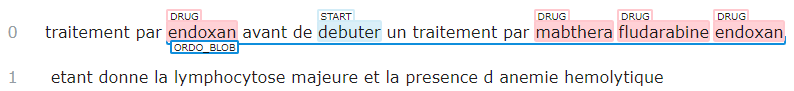
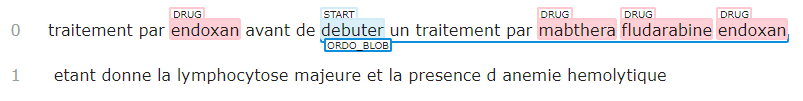
add attribute image

diff --git a/README.md b/README.md
@@ -591,9 +591,9 @@ S'il existe plusieurs médicaments pour un même événement, annotez le normale
 # Prescription
 
 Les prescriptions sont des groupements d'annotations. Il existe deux types de prescription : la presciption de médicaments (**"drug_blob"**) et la prescription d'ordonnance (**"ordo_blob"**).
-  - Un **drug_blob** correspond à un et un seul médicaments ainsi que ses attributs. Si le même médicament est cité deux fois, il faut ses deux mentions dans le drugblob.
+  - Un **drug_blob** correspond à **un et un seul** médicaments(**"drug"**)/classe de médicament (**"class"**) ainsi que ses attributs. Si le même médicament est cité deux fois, il faut ses deux mentions dans le **"drug_blob"**.
 
-  - Un **ordo_blob** correspond à un regroupement de **drug_blob** et/ou de médicaments (**"drug"** ou **"class"**) isolés ayant un attribut commun.
+  - Un **ordo_blob** correspond à un regroupement de **drug_blob** et/ou de médicaments (**"drug"**) ou classes de médicaments (**"class"**) isolés ayant un attribut commun.
 
 
 ##  Qu'est-ce qui doit être annoté ?
@@ -640,6 +640,17 @@ Type d'évènement (**"event_type"**) : à choisir dans **"start"** (par défaut
 
 <img src="examples/exemple2.PNG" width="1000px">
 
+- *il a ete explique aux parents d utiliser l oxygene en cas d inconfort, de paleur ou de gene respiratoire et non en fonction d un chiffre de saturation*
+  - **"drug_blob"** : *oxygene en cas d inconfort, de paleur ou de gene respiratoire et non en fonction d un chiffre de saturation*
+    - **"drug"** : *oxygene*
+    - **"condition"** : *inconfort*
+    - **"condition"** : *paleur*
+    - **"condition"** : *gene respiratoire*
+    - **"condition"** : *chiffre de saturation*
+      - **"certainty"** : negated (ici le chiffre de saturation n'est pas une vraie condition, d'où le **"negated"**)
+
+<img src="examples/exemple5.PNG" width="1000px">
+
 - *doliprane 1 dose poids\*4/ jour si douleurs (paracetamol 1 boite)*
   - **"drug_blob"** : *doliprane 1 dose poids\*4/ jour si douleurs (paracetamol*
     - **"drug"** : *doliprane*
@@ -650,7 +661,6 @@ Type d'évènement (**"event_type"**) : à choisir dans **"start"** (par défaut
 
 Si un attribut ou un événement est lié à plusieurs médicaments, ne l'incluez que dans le motif **"ordo_blob"** qui inclura les **"drug"** et/ou les **"drug_blob** concernés.
 
-Ici, *debuter* est lié à l'ordonnance :
 
 - *traitement par endoxan avant de debuter un traitement par mabthera fludarabine endoxan etant donne la lymphocytose majeure et la presence d anemie hemolytique*
   - **"drug"** : *endoxan*
@@ -662,7 +672,6 @@ Ici, *debuter* est lié à l'ordonnance :
 
 <img src="examples/exemple3.PNG" width="1000px">
 
-Ici, *toujours* est lié à l'ordonnance :
 
 - *je ne modifie pas son traitement, soit toujours lasilix 20 mg/j, atacand 8 mg, ezetrol , calciparat 1 g, allopurinol 300 mg et crestor 5.*
   - ordo_blob : *toujours lasilix 20 mg/j, atacand 8 mg, ezetrol , calciparat 1 g, allopurinol 300 mg et crestor 5*
